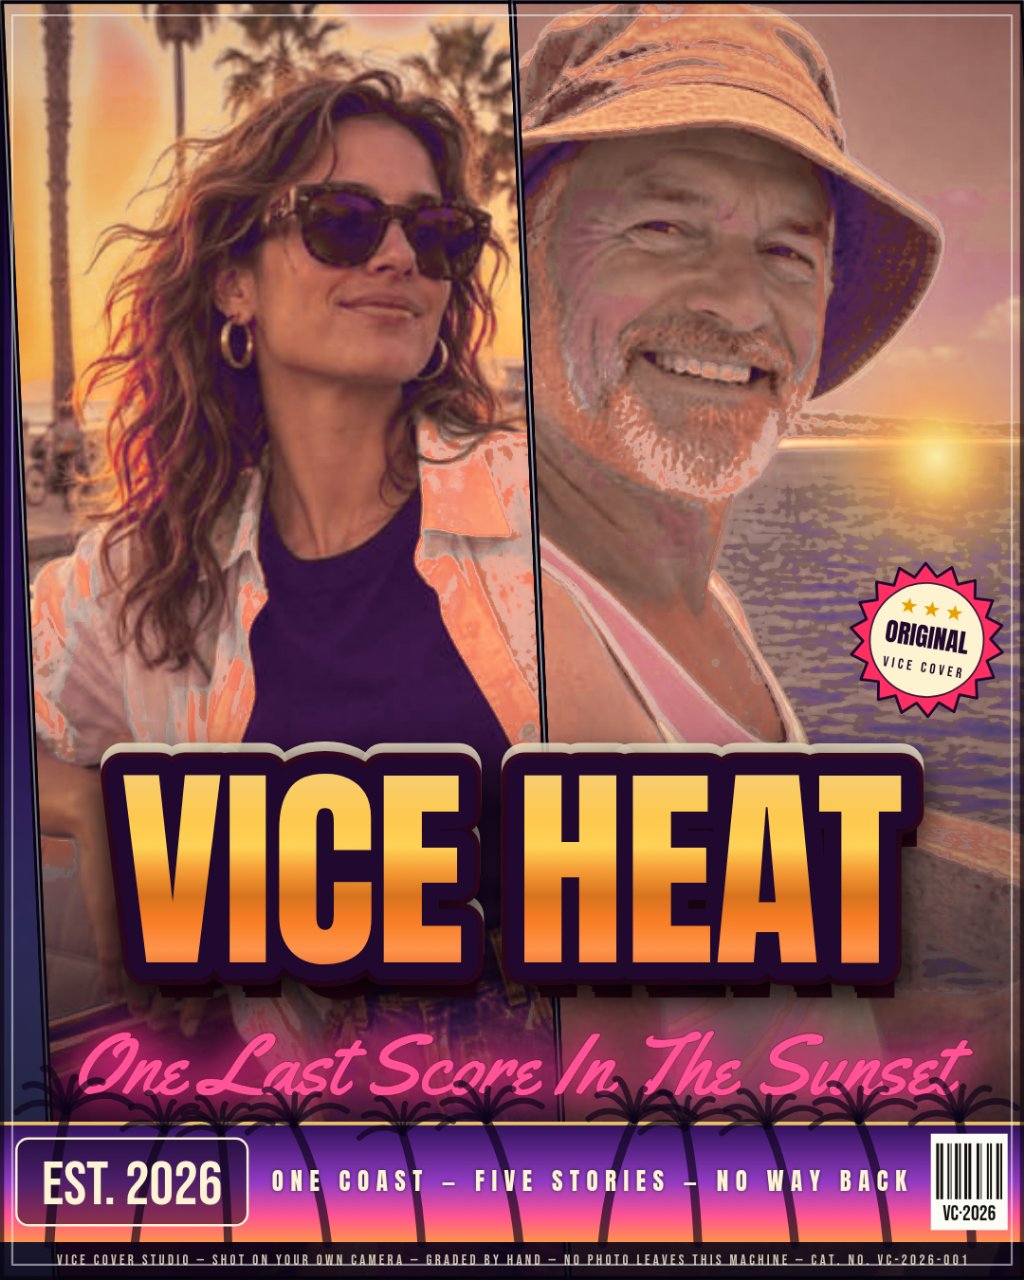
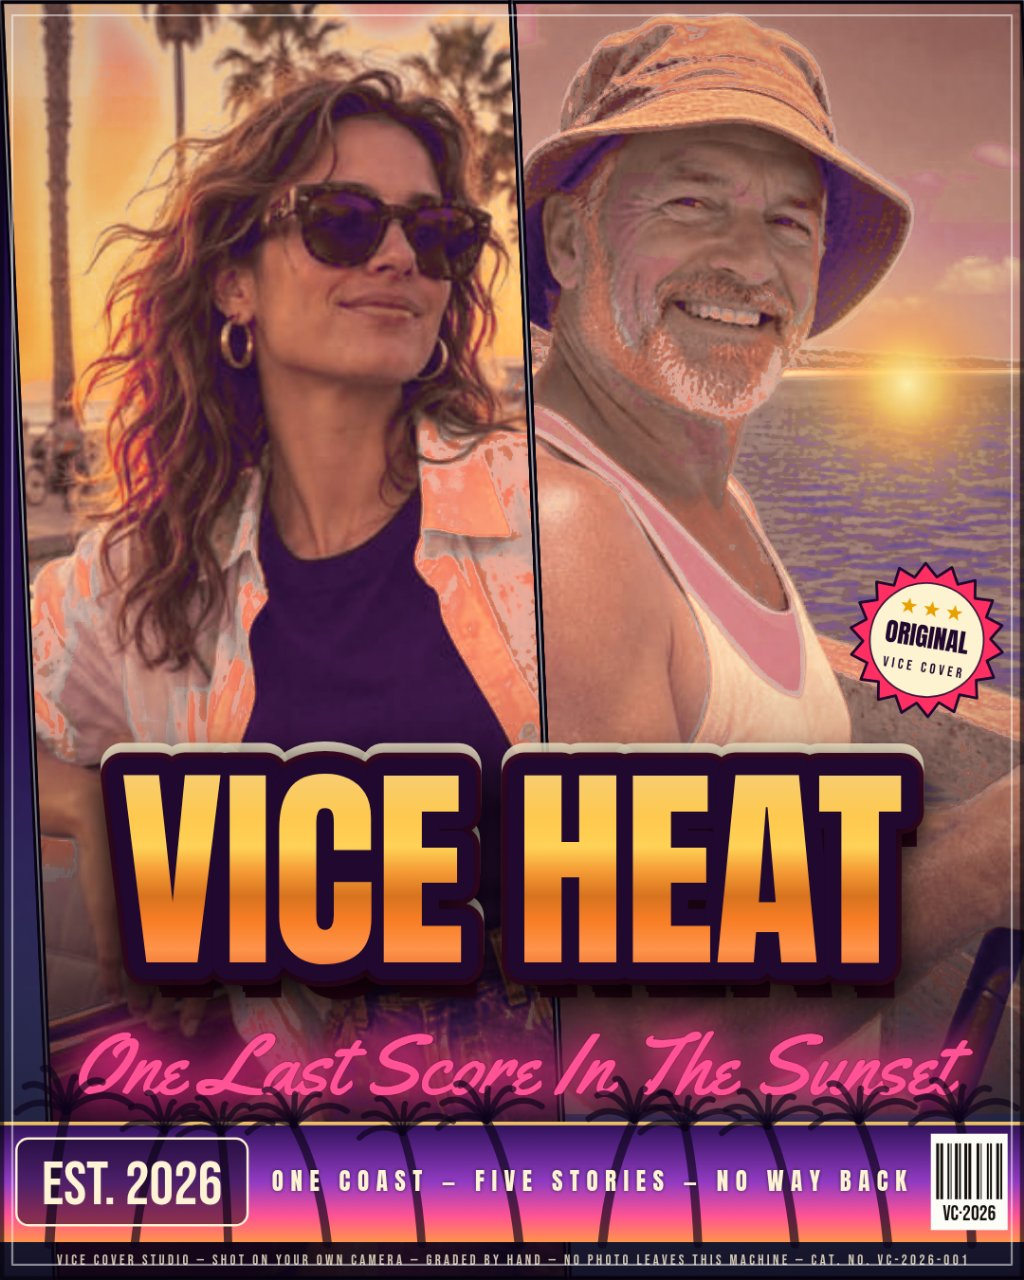
Round 38: Duo pier scene framing

diff --git a/app/src/shots.js b/app/src/shots.js
@@ -85,8 +85,34 @@ export async function runShot(shot, query, helpers) {
   const neonFrame = (showcaseScene && fourth.endsWith('neon.jpg'))
     ? { zoom: 1.1, ox: -0.44, oy: 0.55 }
     : undefined;
+  // The Duo portrait's pier panel (round 38): a scene, not a face.
+  // At the renderer's default framing (zoom 1.1) the Duo's tall,
+  // narrow pier cell is height-driven, so the fisherman's face alone
+  // filled ~11% of the panel and his skin texture — measured clean
+  // (mag330 0.69% in the photo-mapped face box) — kept drawing the
+  // micro judges' magenta-mottling charge purely by size. This scene
+  // therefore frames the pier photo BELOW cover-fit, at zoom 0.87,
+  // anchored to the panel's top (oy 1): the whole photograph shows —
+  // hat, face, torso, rod hand, railing and deck — inside a window
+  // 0.51 of the photo wide instead of 0.40, and the face lands at
+  // 0.626 of its old area ((0.87/1.1)^2), still large enough to read
+  // as a character, small enough to read as a man ON a pier. The
+  // scale leaves the panel's foot uncovered; that foot is the
+  // poster's own furniture zone — the lettering scrim deepens to
+  // 0.88 across it, the banner strip owns y 0.876–0.970 and the
+  // microtext rides the last line — so the photo ends behind the
+  // banner the way a scene card ends behind a one-sheet's billing
+  // block, in the poster's dark plum, never in a hole of raw sky
+  // base. The sun anchor maps through this same frame, so the disc
+  // stays on the photo's horizon, clear of the smaller face (the
+  // face ends at photo fx 0.48; the anchor rides fx 0.60). Only this
+  // scene is reframed; the Grid showcase's pier cell and every other
+  // shot keep the renderer's default framing exactly.
+  const pierDuoFrame = (state.layout === 'duo' && state.grade === 'blockbuster' && second.endsWith('pier.jpg'))
+    ? { zoom: 0.87, ox: 0, oy: 1 }
+    : undefined;
   put(0, first, imgA, heroFrame);
-  put(1, second, imgB);
+  put(1, second, imgB, pierDuoFrame);
   put(2, third, imgC, cruiserFrame);
   put(3, fourth, imgD, neonFrame);
   put(4, fifth, imgE);
